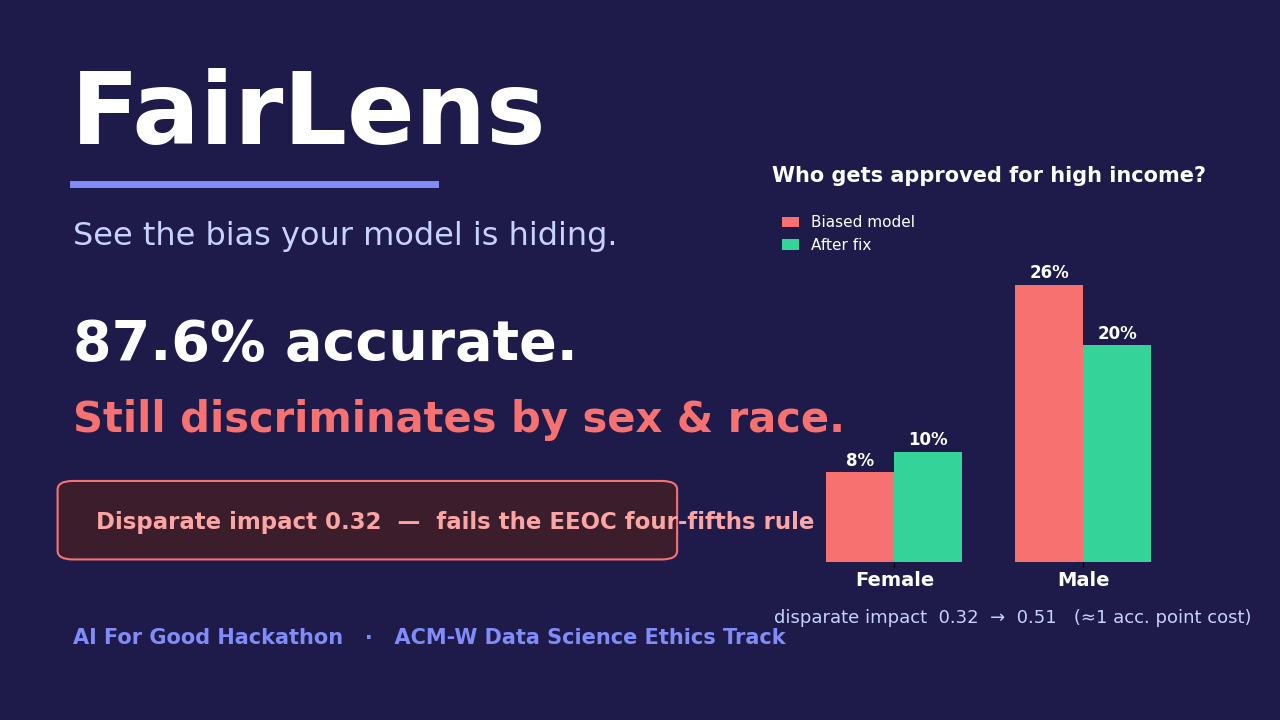
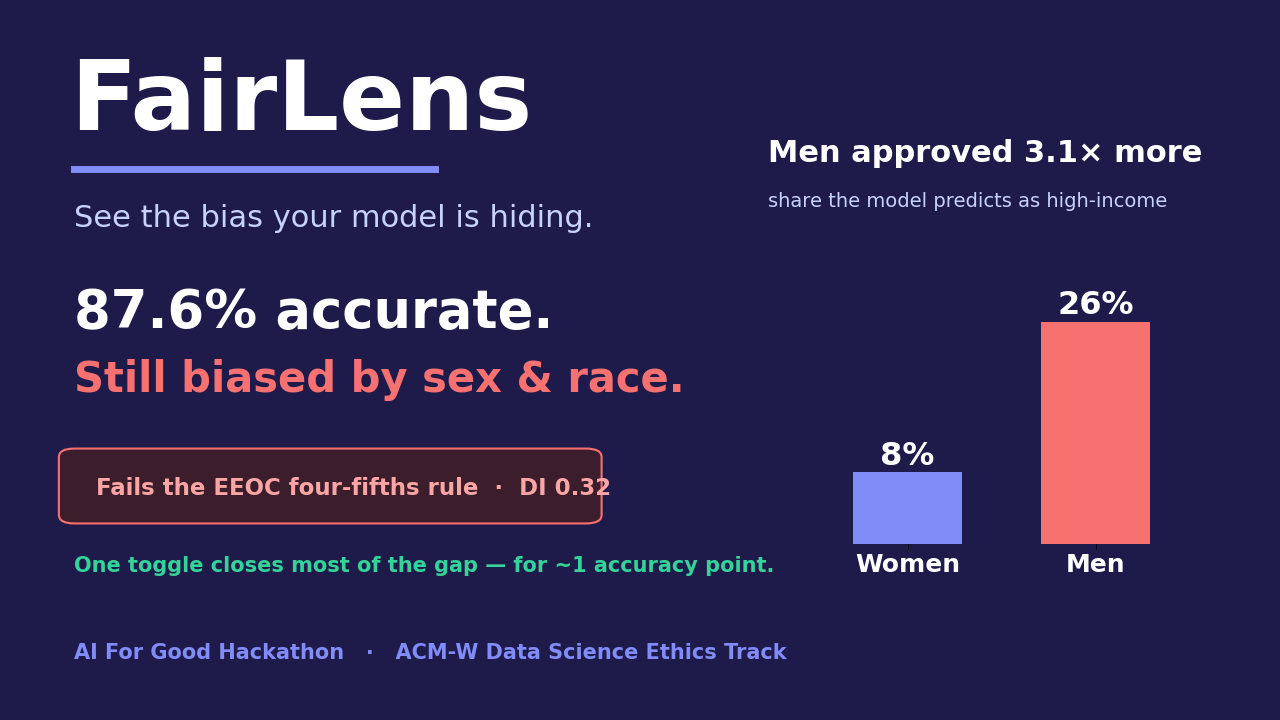
Polish thumbnail layout (fix overlap + clipping)

diff --git a/src/make_thumbnail.py b/src/make_thumbnail.py
@@ -14,7 +14,6 @@ ROOT = Path(__file__).resolve().parent.parent
 OUT = ROOT / "outputs"
 metrics = json.loads((OUT / "metrics.json").read_text())
 
-INDIGO = "#312E81"
 INDIGO_D = "#1E1B4B"
 WHITE = "#FFFFFF"
 LIGHT = "#C7D2FE"
@@ -22,68 +21,56 @@ ACCENT = "#818CF8"
 RED = "#F87171"
 GREEN = "#34D399"
 
-# ---- selection rates for the hero chart (sex: baseline vs mitigated) ----
 base = {r["sex"]: r["selection_rate"] for r in metrics["fairness"]["sex"]["baseline"]["by_group"]}
-mit = {r["sex"]: r["selection_rate"] for r in metrics["fairness"]["sex"]["mitigated"]["by_group"]}
 di_b = metrics["fairness"]["sex"]["baseline"]["disparate_impact_ratio"]
-di_m = metrics["fairness"]["sex"]["mitigated"]["disparate_impact_ratio"]
 acc = metrics["performance_baseline"]["accuracy"]
+ratio = base["Male"] / base["Female"]
 
 fig = plt.figure(figsize=(12.8, 7.2), dpi=100)
 fig.patch.set_facecolor(INDIGO_D)
 
-# ---------- LEFT: text ----------
-fig.text(0.055, 0.80, "FairLens", fontsize=72, fontweight="bold", color=WHITE)
-# accent underline
-fig.add_artist(plt.Line2D([0.057, 0.34], [0.745, 0.745], color=ACCENT, lw=5))
+# ---------- LEFT: text, evenly spaced ----------
+fig.text(0.055, 0.82, "FairLens", fontsize=70, fontweight="bold", color=WHITE)
+fig.add_artist(plt.Line2D([0.058, 0.34], [0.765, 0.765], color=ACCENT, lw=5))
+fig.text(0.058, 0.685, "See the bias your model is hiding.", fontsize=22, color=LIGHT)
 
-fig.text(0.057, 0.66, "See the bias your model is hiding.",
-         fontsize=23, color=LIGHT)
+fig.text(0.058, 0.545, f"{acc*100:.1f}% accurate.", fontsize=38, fontweight="bold", color=WHITE)
+fig.text(0.058, 0.455, "Still biased by sex & race.", fontsize=30, fontweight="bold", color=RED)
 
-fig.text(0.057, 0.50, f"{acc*100:.1f}% accurate.", fontsize=40, fontweight="bold", color=WHITE)
-fig.text(0.057, 0.40, "Still discriminates by sex & race.", fontsize=30,
-         fontweight="bold", color=RED)
-
-# four-fifths callout pill
-pill = FancyBboxPatch((0.057, 0.235), 0.46, 0.085, boxstyle="round,pad=0.012",
+pill = FancyBboxPatch((0.058, 0.285), 0.40, 0.08, boxstyle="round,pad=0.012",
                       transform=fig.transFigure, facecolor="#3B1D2B",
                       edgecolor=RED, linewidth=1.5)
 fig.add_artist(pill)
-fig.text(0.075, 0.265, f"Disparate impact {di_b:.2f}  —  fails the EEOC four-fifths rule",
+fig.text(0.075, 0.313, f"Fails the EEOC four-fifths rule  ·  DI {di_b:.2f}",
          fontsize=16.5, color="#FCA5A5", fontweight="bold")
 
-fig.text(0.057, 0.105, "AI For Good Hackathon   ·   ACM-W Data Science Ethics Track",
+fig.text(0.058, 0.205, "One toggle closes most of the gap — for ~1 accuracy point.",
+         fontsize=15, color=GREEN, fontweight="bold")
+
+fig.text(0.058, 0.085, "AI For Good Hackathon   ·   ACM-W Data Science Ethics Track",
          fontsize=15, color=ACCENT, fontweight="bold")
 
-# ---------- RIGHT: hero chart ----------
-ax = fig.add_axes([0.60, 0.22, 0.345, 0.5])
+# ---------- RIGHT: headline + one clear bias chart (no bottom caption) ----------
+fig.text(0.60, 0.775, f"Men approved {ratio:.1f}× more",
+         fontsize=22, fontweight="bold", color=WHITE)
+fig.text(0.60, 0.712, "share the model predicts as high-income",
+         fontsize=14, color=LIGHT)
+
+ax = fig.add_axes([0.62, 0.245, 0.325, 0.40])
 ax.set_facecolor(INDIGO_D)
-groups = ["Female", "Male"]
-x = range(len(groups))
-w = 0.36
-b1 = ax.bar([i - w / 2 for i in x], [base[g] for g in groups], w,
-            label="Biased model", color=RED)
-b2 = ax.bar([i + w / 2 for i in x], [mit[g] for g in groups], w,
-            label="After fix", color=GREEN)
-for bars in (b1, b2):
-    for b in bars:
-        ax.text(b.get_x() + b.get_width() / 2, b.get_height() + 0.006,
-                f"{b.get_height():.0%}", ha="center", color=WHITE, fontsize=12,
-                fontweight="bold")
-ax.set_xticks(list(x))
-ax.set_xticklabels(groups, color=WHITE, fontsize=14, fontweight="bold")
+groups = ["Women", "Men"]
+vals = [base["Female"], base["Male"]]
+bars = ax.bar(groups, vals, width=0.58, color=[ACCENT, RED])
+for b, v in zip(bars, vals):
+    ax.text(b.get_x() + b.get_width() / 2, v + 0.009, f"{v:.0%}",
+            ha="center", color=WHITE, fontsize=23, fontweight="bold")
+ax.set_xticks(range(len(groups)))
+ax.set_xticklabels(groups, color=WHITE, fontsize=18, fontweight="bold")
 ax.set_yticks([])
-for spine in ax.spines.values():
-    spine.set_visible(False)
-ax.set_title("Who gets approved for high income?", color=WHITE, fontsize=15,
-             fontweight="bold", pad=14)
-ax.legend(loc="upper left", frameon=False, labelcolor=WHITE, fontsize=11,
-          handlelength=1.1)
-ax.set_ylim(0, max(base.values()) * 1.30)
-ax.margins(x=0.18)
+for s in ax.spines.values():
+    s.set_visible(False)
+ax.set_ylim(0, max(vals) * 1.30)
+ax.margins(x=0.20)
 
-fig.text(0.605, 0.135, f"disparate impact  {di_b:.2f}  →  {di_m:.2f}   (≈1 acc. point cost)",
-         fontsize=13, color=LIGHT)
-
-fig.savefig(OUT / "thumbnail.png", facecolor=fig.get_facecolor(), bbox_inches=None)
-print("wrote", OUT / "thumbnail.png")
+fig.savefig(OUT / "thumbnail.png", facecolor=fig.get_facecolor())
+print("wrote", OUT / "thumbnail.png", "| ratio", round(ratio, 2))
